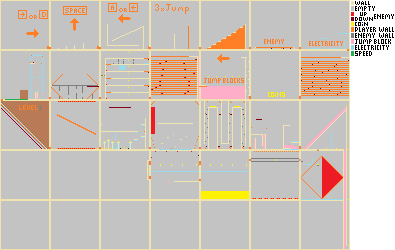
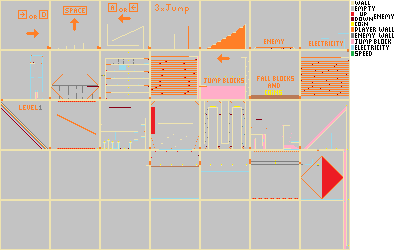
Changed speed walls to just squares

diff --git a/src/MapPackage/MapSquare.java b/src/MapPackage/MapSquare.java
@@ -27,15 +27,14 @@ public class MapSquare {
 				JUMP_SQUARE_COLOR = new Color(255, 174, 201),
 				ELECTRIC_SQUARE_COLOR = new Color(153, 217, 234),
 				ELECTRICITY_COLOR = new Color(0, 162, 232),
-				SPEED_WALL_COLOR = new Color(34, 177, 76),
-				SPEED_COLOR = new Color(181, 230, 29),
+				SPEED_COLOR = new Color(34, 177, 76),
 				FALL_SQUARE_COLOR = new Color(185, 122, 87);
 				
 	private static enum SquareType {
 		FLOOR, WALL, COIN, ENEMY,
 		ENEMY_WALL, PLAYER_WALL, 
 		JUMP_SQUARE, ELECTRIC_SQUARE, 
-		SPEED_WALL, FALL_SQUARE
+		SPEED_SQUARE, FALL_SQUARE
 	}
 	
 	private SquareType squareType;
@@ -67,8 +66,8 @@ public class MapSquare {
 		else if (pixelColor.equals(ELECTRIC_SQUARE_COLOR)) {
 			squareType = SquareType.ELECTRIC_SQUARE;
 		}
-		else if (pixelColor.equals(SPEED_WALL_COLOR)) {
-			squareType = SquareType.SPEED_WALL;
+		else if (pixelColor.equals(SPEED_COLOR)) {
+			squareType = SquareType.SPEED_SQUARE;
 		}
 		else if (pixelColor.equals(FALL_SQUARE_COLOR)) {
 			squareType = SquareType.FALL_SQUARE;
@@ -116,8 +115,7 @@ public class MapSquare {
 			g.fillRect(x, y, width, height);
 			paintElectricity(g, x, y, width, height, 2);
 			break;
-		case SPEED_WALL:
-			g.fillRect(x, y, width, height);
+		case SPEED_SQUARE:
 			paintSpeed(g, x, y, width, height, 2);
 			break;
 		case FALL_SQUARE:
@@ -188,8 +186,8 @@ public class MapSquare {
 			return JUMP_SQUARE_COLOR;
 		case ELECTRIC_SQUARE:
 			return ELECTRIC_SQUARE_COLOR;
-		case SPEED_WALL:
-			return SPEED_WALL_COLOR;
+		case SPEED_SQUARE:
+			return SPEED_COLOR;
 		case FALL_SQUARE:
 			return FALL_SQUARE_COLOR;
 		}
@@ -204,9 +202,10 @@ public class MapSquare {
 		case JUMP_SQUARE:
 		case ELECTRIC_SQUARE:
 		case FALL_SQUARE:
+		case SPEED_SQUARE:
 			return false;
 			
-		case SPEED_WALL:
+		
 		case ENEMY_WALL:
 		case WALL:
 		default:
@@ -225,7 +224,7 @@ public class MapSquare {
 			return false;
 		
 		default:
-		case SPEED_WALL:
+		case SPEED_SQUARE:
 		case WALL:
 		case PLAYER_WALL:
 		case JUMP_SQUARE:
@@ -258,7 +257,7 @@ public class MapSquare {
 	}
 	
 	public boolean isSpeed() {
-		return squareType == SquareType.SPEED_WALL;
+		return squareType == SquareType.SPEED_SQUARE;
 	}
 	
 	public boolean isFall() {

diff --git a/src/gamePackage/Player.java b/src/gamePackage/Player.java
@@ -29,13 +29,11 @@ public class Player {
 	}
 	
 	public boolean move(int dx, boolean jump, MapSquare[][] mapSquares) {
-		
-		if (position.getY() + 1 < GLOBAL.MAP_PIXEL_SIZE) {
-			if (mapSquares[position.getX()][position.getY() + 1].isSpeed()) {
-				dx *= GLOBAL.PLAYER_SPEED_MULTI;
-			}
+		if (checkSpeed(mapSquares)) {
+			dx *= GLOBAL.PLAYER_SPEED_MULTI;
 		}
-		if (mapSquares[position.getX()][position.getY()].isFall()) {
+		
+		if (checkFall(mapSquares)) {
 			velocity.addYShort(GLOBAL.PLAYER_FALL);
 		}
 		
@@ -104,6 +102,26 @@ public class Player {
 		
 		movePlayer(newPosition, mapSquares);
 		
+		return false;
+	}
+	
+	private boolean checkFall(MapSquare[][] mapSquares) {
+		if (position.getY() + 1 < GLOBAL.MAP_PIXEL_SIZE) {
+			return 	mapSquares[position.getX()][position.getY()].isFall() ||
+					mapSquares[position.getX()][position.getYMaxPlayer()].isFall() ||
+					mapSquares[position.getXMaxPlayer()][position.getY()].isFall() ||
+					mapSquares[position.getXMaxPlayer()][position.getYMaxPlayer()].isFall();
+		}
+		return false;
+	}
+
+	private boolean checkSpeed(MapSquare[][] mapSquares) {
+		if (position.getY() + 1 < GLOBAL.MAP_PIXEL_SIZE) {
+			return 	mapSquares[position.getX()][position.getY()].isSpeed() ||
+					mapSquares[position.getX()][position.getYMaxPlayer()].isSpeed() ||
+					mapSquares[position.getXMaxPlayer()][position.getY()].isSpeed() ||
+					mapSquares[position.getXMaxPlayer()][position.getYMaxPlayer()].isSpeed();
+		}
 		return false;
 	}
 

diff --git a/src/MapPackage/Map.java b/src/MapPackage/Map.java
@@ -69,16 +69,16 @@ public class Map {
 		} catch (IOException e) {}
 		
 		currentMap = new Point(GLOBAL.MAP_START_X, GLOBAL.MAP_START_Y);
+		int coins = 0;
 		for (int i = 0; i < GLOBAL.MAP_SIZE.width; i++) {
 			for (int j = 0; j < GLOBAL.MAP_SIZE.height; j++) {
-				
 				BufferedImage mapBlock = new BufferedImage(GLOBAL.MAP_PIXEL_SIZE, GLOBAL.MAP_PIXEL_SIZE, BufferedImage.TYPE_INT_ARGB);
-				
 				mapBlock.getGraphics().drawImage(map, -i * GLOBAL.MAP_PIXEL_SIZE, -j * GLOBAL.MAP_PIXEL_SIZE, null);
-				
 	    		mapTile[i][j] = new MapTile(mapBlock);
+	    		coins += mapTile[i][j].getNumberOfCoins();
 			}
 		}
+		System.out.println("Total Coins:" + coins);
 	}
 	
 	private MapTile getCurrentMap() {

diff --git a/src/gamePackage/GLOBAL.java b/src/gamePackage/GLOBAL.java
@@ -30,7 +30,7 @@ public final class GLOBAL {
 	public static final byte PLAYER_JUMP_LIMIT = 3;
 	public static final double PLAYER_FRICTION = 0.90;
 	public static final short PLAYER_MAX_VELOCITY = U_MULTIPLIER;
-	public static final byte PLAYER_SPEED_MULTI = 2;
+	public static final byte PLAYER_SPEED_MULTI = 3;
 	public static final byte PLAYER_MAP_CHANGE_WAIT = 50;
 	
 	public static final short ENEMY_STEP = 10;

diff --git a/src/MapPackage/MapTile.java b/src/MapPackage/MapTile.java
@@ -115,4 +115,16 @@ public class MapTile {
 	public Death getDeathCause() {
 		return deathCause;
 	}
+
+	public int getNumberOfCoins() {
+		int coins = 0;
+		for (int i = 0; i < GLOBAL.MAP_PIXEL_SIZE; i++) {
+			for (int j = 0; j < GLOBAL.MAP_PIXEL_SIZE; j++) {
+				if (mapSquares[i][j].isCoin()) {
+					coins++;
+				}
+			}
+		}
+		return coins;
+	}
 }

diff --git a/src/settingsPackage/SettingsHandler.java b/src/settingsPackage/SettingsHandler.java
@@ -57,7 +57,7 @@ public class SettingsHandler {
 			}
 			if (settingsString != null && !settingsString.startsWith(COMMENT_SYMBOL)) {
 				
-				settingsString.replaceAll("\\s", "");
+				settingsString = settingsString.replaceAll("\\s", "");
 				
 				int indexOfIdentifier = settingsString.indexOf(IDENTIFIER_SYMBOL);
 				if (indexOfIdentifier == -1) {

diff --git a/src/keyInputPackage/GameKeyboardListener.java b/src/keyInputPackage/GameKeyboardListener.java
@@ -37,7 +37,7 @@ public class GameKeyboardListener implements KeyListener {
 	}
 	
 	private boolean getKey(int keyCode) {
-		for (int k: keysDown) {
+		for (int k: keysDown) { // TODO concurrent use modification happens
 			if (k == keyCode) {
 				return true;
 			}

diff --git a/src/gamePackage/Game.java b/src/gamePackage/Game.java
@@ -73,10 +73,6 @@ public class Game {
 				
 				player.kill();
 				keyListener.reset();
-				
-				
-				
-				
 				state = State.DEATH;
 			}
 			if (player.getCoins() >= GLOBAL.MAX_COINS) {
